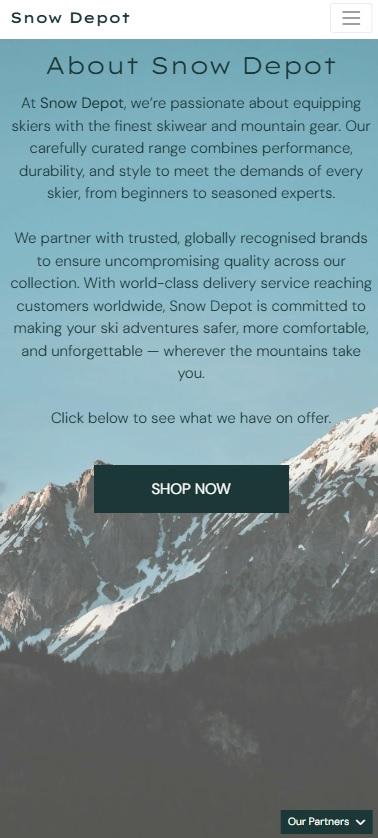
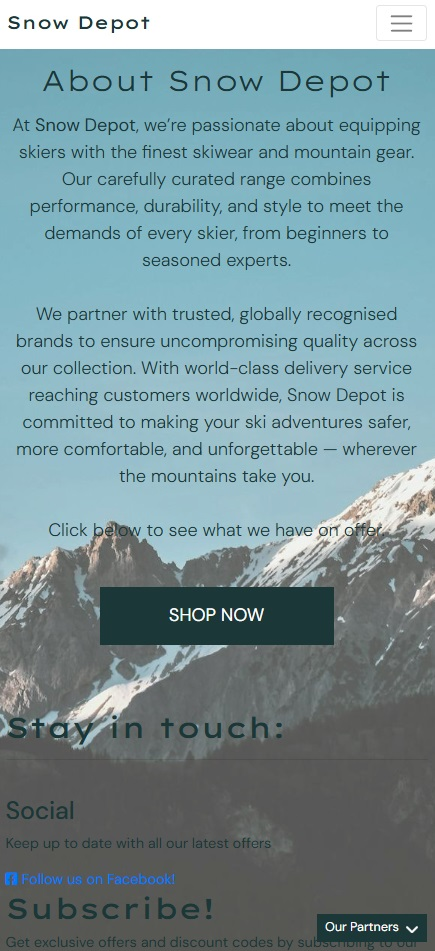
Added business model and marketing plan sections to readme.

diff --git a/README.md b/README.md
@@ -211,7 +211,7 @@ The index page welcomes users with a full‑width hero image that sets an alpine
 
 A prominent Shop Now call‑to‑action drives visitors directly into the product catalog for a fast start to browsing. Below, the About section introduces the brand’s purpose and values. 
 
-FACEBOOK LINK AND NEWSLETTER SIGNUP
+The homepage includes a social section with CTA text and a link to Snow Depot's Facebook page (https://www.facebook.com/profile.php?id=61581703524904). It also includes a newsletter subscription form which is linked to an integrated Mailchimp signup, allowing customers to stay in touch with Snow Depot, and offering opportunities to develop a curated email campaign for prospective customers.
 
 The Our Partners area highlights a selection of trusted industry brands and services that Snow Depot collaborates with, showcasing the online skiwear ecosystem behind the store. 
 
@@ -492,6 +492,8 @@ All manual testing detailed here was conducted both on a local server, as well a
 
 #### **Browsing Process**
 - Main homepage loads upon visiting the site index, and the CTA Shop Now button correctly redirects the user to the All Product list.
+- Manually tested that the Facebook page linked to the project is functional, complete with sufficient business details, and correctly links from and refers back to the project site.
+- Confirmed that the email newletter signup works as expected, with valid emails being confirmed on the Mailchimp list, and a Mailchimp troubleshooting page is opened in the browser if incorrect details are submitted.
 - Navigation elements were tested exhaustively on all screen sizes:
   - All nav element links return the correct url and page
   - Nav elements are consistently styled, and drop-down lists function as expected
@@ -713,7 +715,6 @@ Close to submission during late deployed testing, it was identified that adding 
 
 Clearing the browser session resolved this issue (since this clears the invalid entry from the basket), but this is a suboptimal fix and the issue should be addressed within the appropriate views. This would be another key priority to resolve provided more time for project development. 
 
-
 ## Features for future development
 While the project delivers a functional and user-friendly online ski shop, there are several opportunities for future development that would enhance scalability, efficiency, and overall user experience. These features are intended to refine the platform beyond its minimum viable product, addressing both customer-facing improvements and administrative interactions. 
 
@@ -734,6 +735,13 @@ Bulk image upload functionality could also be developed alongside this to pair p
 
 By reducing manual input and repetitive tasks, bulk upload features would improve scalability, save time for administrators, and ensure consistency across product entries.
 
+### Checks before product and review deletion
+Currently, admin users delete products using the delete links on product cards and product detail pages. While this functions correctly, it would be prudent to develop a confirmation check, perhaps using a pop-up modal on screen, to confirm whether the admin wishes to proceed with deleting a product. 
+
+The same functionality could also extend to both admins and users for reviews - similarly, there are currently no checks for deleting reviews.
+
+Adding this functionality for deletion would prevent accidental deletion of products or reviews which can be potentially very frustrating for any user.
+
 ### Wishlist
 A wishlist feature could allow registered users to save products for future reference without immediately adding them to their cart. This would improve the shopping experience by supporting product comparison, encouraging return visits, and increasing the likelihood of future purchases. 
 
@@ -741,12 +749,44 @@ Items could be added via a star icon on product cards when browsing the catalog,
 
 From an administrative perspective, wishlists could provide insights into customer interests and popular items, helping guide stock management and marketing strategies. 
 
-## Web Marketing
+## Marketing
+
+### Business Model
+- **Value proposition:** curated, performance-focused ski equipment and apparel with expert guidance, transparent reviews, secure checkout (Stripe), fast shipping, and easy returns.
+- **Customer segments:** recreational and advanced skiers, seasonal travelers, gift buyers; secondary: international customers with strong brand preferences.
+- **Potential revenue streams:** product margins, bundles (e.g., skis + poles + bindings, would require development of additional functionality/categorisation), high-margin accessories/upsells, shipping upgrades, gift cards, seasonal clearance, affiliate partnerships.
+- **Prospective partners:** brands/distributors, 3PL, Stripe, AWS, Heroku, affiliates/influencers, ski clubs/resorts.
+
+### Web Marketing
 A customised Facebook page for the Snow Depot store was created at the following link: https://www.facebook.com/profile.php?id=61581703524904<br>
 **Snow Depot Facebook page**<br>
 ![Snow Depot Facebook page](readme_assets/img/facebook-page.jpg)<br>
 
 A Mailchimp account was created and a related email subscription form was integrated on the homepage.
+
+### Marketing plan for future development
+
+#### Phase 1: Awareness & Attraction (1-3 months post-deployment)
+Goal: Build brand visibility and attract targeted traffic.
+- Content Marketing: Blog posts and guides on ski gear, destination tips, and “how to choose” articles optimized for SEO.
+- Social Media Campaigns: Leverage existing Facebook page and explore options to extend social media presence to other sites (e.g. Instagram, TikTok) for wider reach.
+- Paid Ads: Run seasonal Google Ads & Meta Ads targeting keywords like “buy skis online” and “ski gear near me.”
+- Partnerships: Establish genuine partnerships with ski resorts, instructors, and influencers for shoutouts and affiliate links.
+
+#### Phase 2: Engagement & Conversion (4-6 months post deployment)
+Goal: Turn visitors into customers and build loyalty.
+- Email Marketing: Welcome series, gear guides, discounts, and abandoned cart reminders.
+- Personalization: Recommend products based on browsing history and purchase behavior.
+- Limited-Time Offers: Flash sales around ski season peaks and holidays. Required addition of new categorisation and modelling for products on sale.
+- Customer Reviews: Develop select, high quality reviews into formal testimonials and add functionality to allow users to post photos with branded hashtags as part of their review.
+
+#### Phase 3: Retention & Growth (Months 7–12)
+Goal: Retain customers, increase lifetime value, and encourage advocacy.
+- Loyalty Program: Points for purchases, referrals, and reviews (redeemable for discounts). Would require overhaul of the existing UserProfile model and profile area to track loyalty points, as well as updates to all product and payment related models to track and update loyalty point collections.
+- Seasonal Campaigns: Pre-season gear check promotions, off-season training gear, and end-of-season clearance.
+- Community Building: Online events, ski webinars, and sponsoring local ski clubs.
+- Referral Marketing: Incentivize customers to refer friends with “Give $10, Get $10” programs.
+
 
 ## Key packages
 - **Django==3.2.25** — High-level Python web framework powering models, views, templates, and admin.
@@ -761,6 +801,7 @@ A Mailchimp account was created and a related email subscription form was integr
 - **gunicorn==20.1.0** — Production WSGI HTTP server to run Django applications reliably and efficiently.
 - **pillow==10.3.0** — Imaging library supporting ImageField uploads, resizing, formats, and basic processing.
 - **requests==2.32.4** — Simple HTTP client for outbound API requests, webhooks, and service integrations
+
 
 ## Django imports utilised
 - **django.contrib:** admin, messages
@@ -788,6 +829,7 @@ A Mailchimp account was created and a related email subscription form was integr
 - **django.views.decorators.http:** require_POST
 - **django.views.decorators.csrf:** csrf_exempt
 - **django.views.generic:** TemplateView
+
 
 ## Deployment
 
@@ -846,7 +888,8 @@ Agile delivery was managed in GitHub using Projects and Issues. User stories wer
 - **Dbdiagram** (https://dbdiagram.io/) was used to help plan and visualise the models required for the functionality within the project. 
 
 ### Web Marketing
-- **Facebook** was used to set up a dedicated social media business page for the Snow Depot application. 
+- **Facebook** was used to set up a dedicated social media business page for the Snow Depot application: https://www.facebook.com/profile.php?id=61581703524904
+- **Mailchimp** was used to set up a working newsletter for the site, with potential for development into a curated email marketing campaign.
 
 ### Content
 - **Bootstrap** classes were extensively applied in templates, enhancing responsive layouts and minimizing reliance on additional custom CSS styling. 
